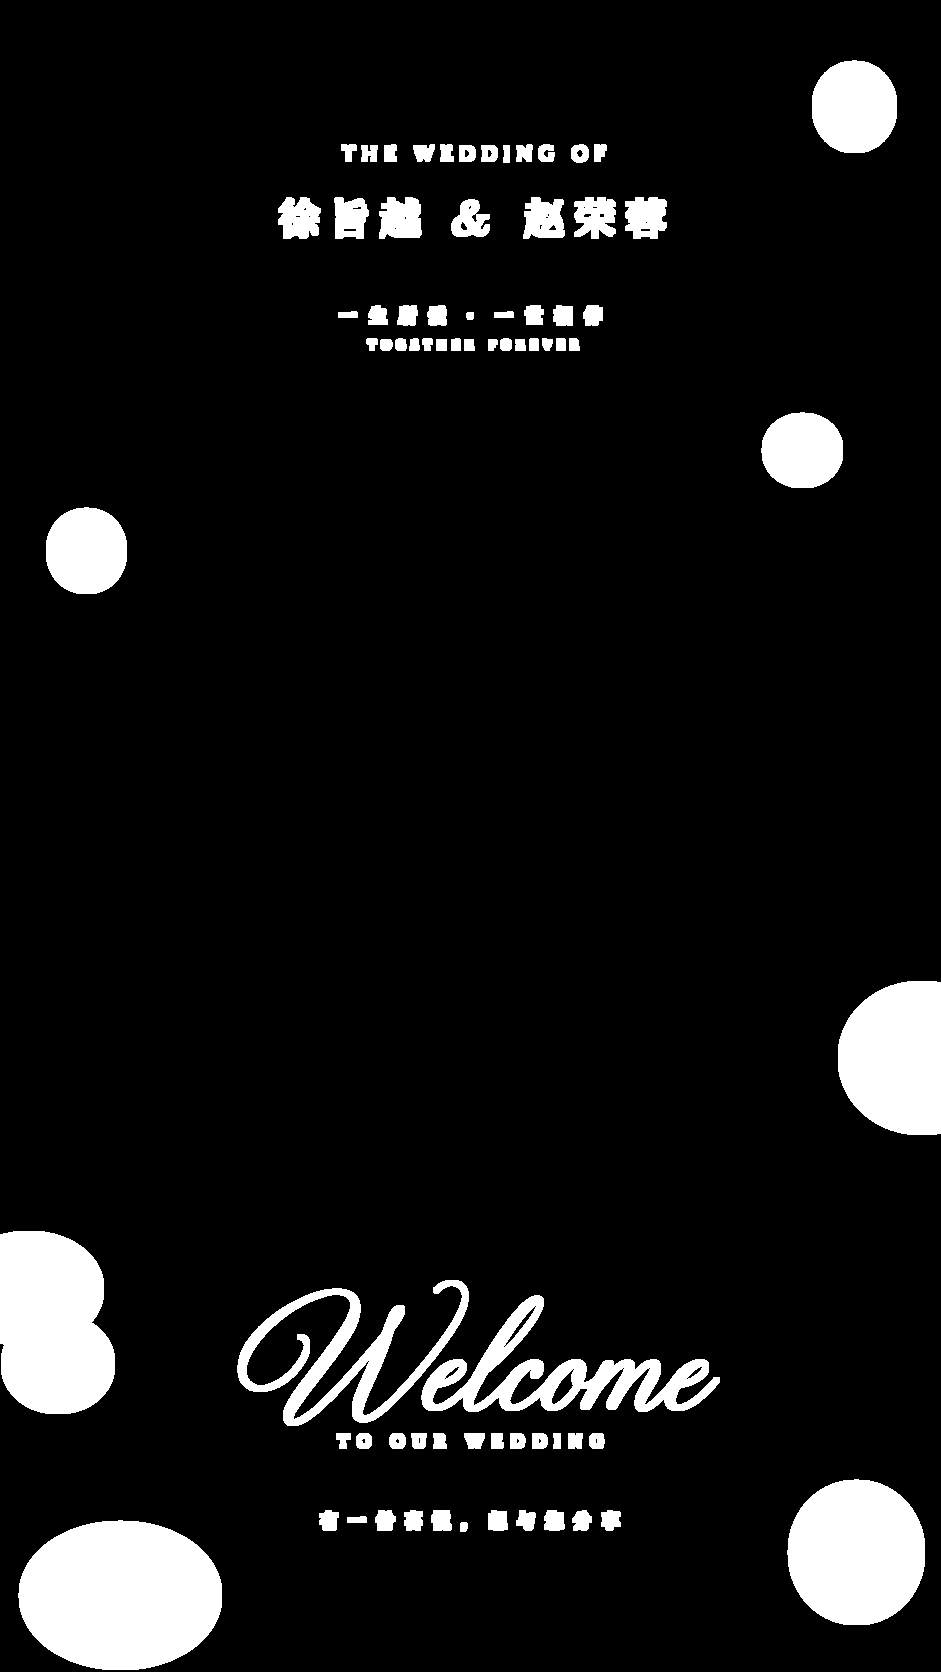
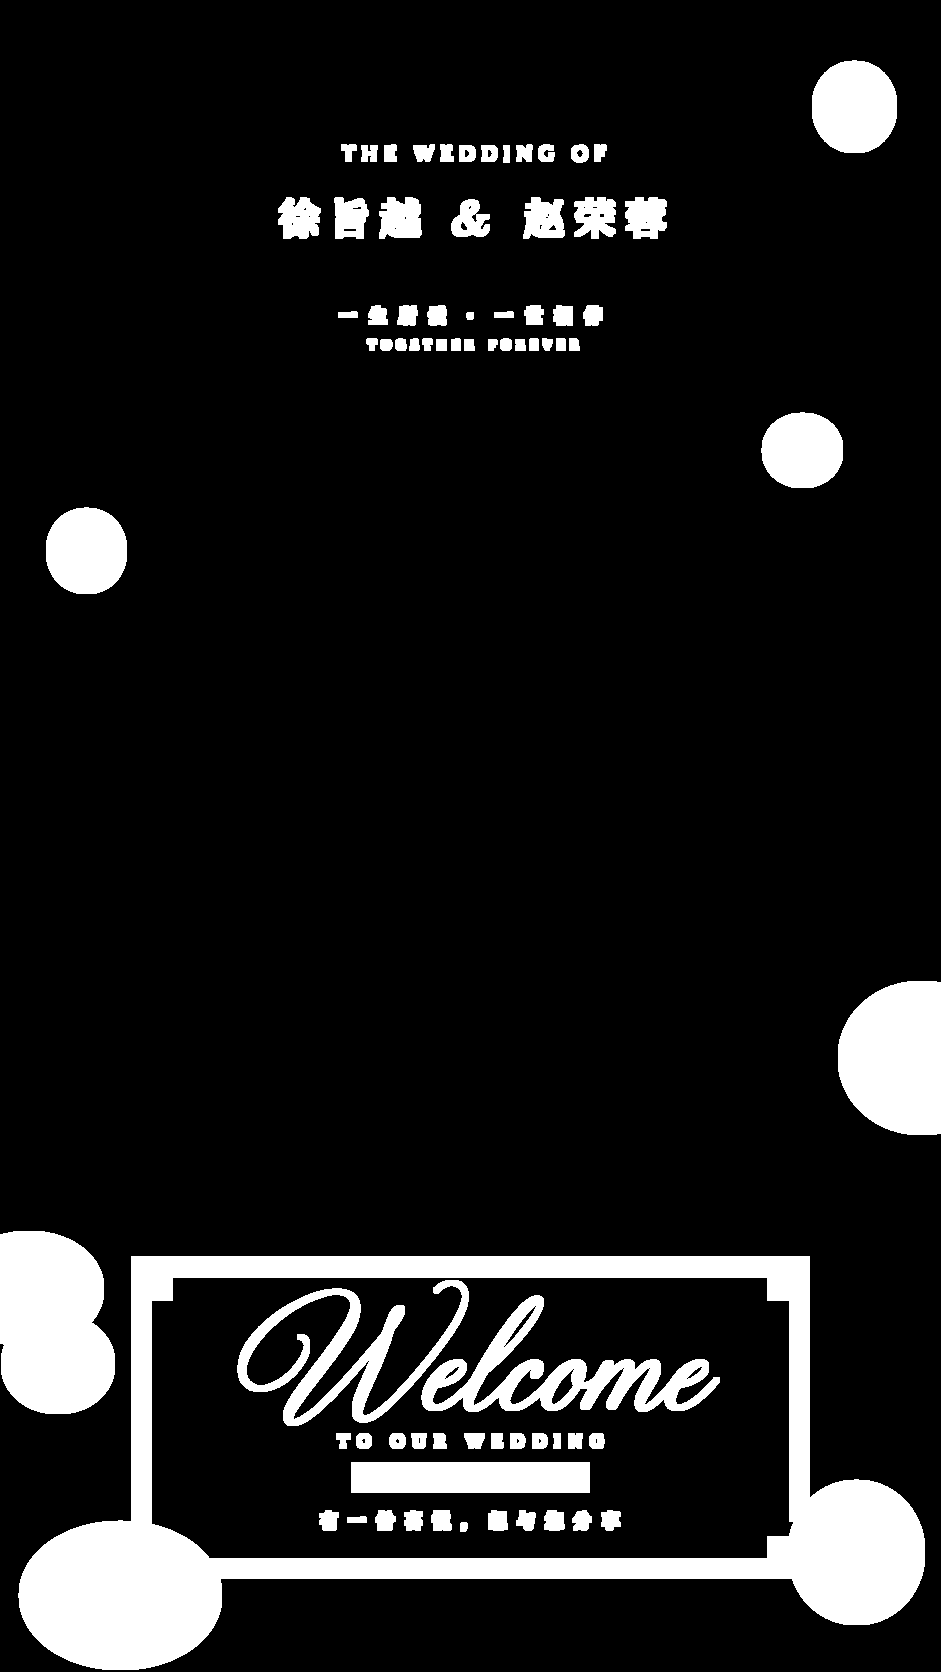
fix(invitation): 为迎宾页翻页按钮保留自适应间距
Welcome 牌面与翻页按钮共用底部布局尺寸，保留 10px 间距并计入设备安全区。清理参考图内固定牌框，避免牌面上移后出现残线。

补充九组屏幕尺寸及底部安全区的布局与点击检查。

Changed region(s): [[0.1233, 0.7464, 0.8629, 0.9641], [0.3698, 0.8708, 0.6472, 0.9019]]

diff --git a/src/style.css b/src/style.css
@@ -168,7 +168,7 @@
     /* 页面底部向下滑动提示 */
     .scroll-hint {
       position: absolute;
-      bottom: 14px;
+      bottom: var(--page-next-bottom);
       left: 0;
       right: 0;
       margin: 0 auto;
@@ -285,9 +285,12 @@
       --art-width: calc(100cqh * 941 / 1672);
       --scene-shift: 14px;
       position: absolute;
-      top: 75.65%;
-      left: calc(50% - var(--art-width) * 0.351);
-      width: calc(var(--art-width) * 0.7056);
+      /* 与翻页按钮共用底部尺寸，牌面为完整点击区域留出 10px 间距。 */
+      bottom: max(6.1%, calc(var(--page-next-bottom) + var(--page-next-size) + 10px));
+      left: 0;
+      right: 0;
+      margin-inline: auto;
+      width: min(calc(var(--art-width) * 0.7056), calc(100% - 40px));
       height: 18.25%;
       color: var(--burgundy-deep);
       text-align: center;
@@ -381,7 +384,6 @@
     }
 
     @container (max-height: 620px) {
-      .page-1 .scroll-hint { bottom: 0; }
       .cover-welcome-message { top: 78%; }
     }
 

diff --git a/src/motion.css b/src/motion.css
@@ -103,7 +103,7 @@
 button:focus-visible, a:focus-visible, [role='button']:focus-visible { outline: 2px solid var(--burgundy); outline-offset: 5px; }
 .btn-enter-invitation:focus-visible { outline-color: var(--burgundy); }
 .cover-names:focus { outline: none; }
-.scroll-hint { min-width: 44px; min-height: 44px; justify-content: center; border: 0; background: transparent; }
+.scroll-hint { min-width: var(--page-next-size); min-height: var(--page-next-size); justify-content: center; border: 0; background: transparent; }
 .modal-close { border: 0; background: transparent; font-family: inherit; }
 .page:not(.active) .scroll-arrow { animation-play-state: paused; }
 .calendar-button, .p3-map-btn { min-height: 44px; }

diff --git a/src/shell.css b/src/shell.css
@@ -35,6 +35,8 @@
 
     /* 桌面端居中仿真机身框架 / 移动端全屏 */
     #app {
+      --page-next-bottom: max(14px, env(safe-area-inset-bottom, 0px));
+      --page-next-size: 44px;
       position: relative;
       container-type: size;
       width: 100%;

diff --git a/design/implementation-notes.md b/design/implementation-notes.md
@@ -40,6 +40,8 @@
 
 迎宾页通过 `aria-owns` 关联牌面。`syncWelcomeGlass` 根据页面状态控制牌面的入场、退场与可访问性；加载页及其他页面不显示该图层。牌面位置按参考图比例计算，尺寸变化沿用同一坐标关系。
 
+迎宾牌与翻页按钮共用 `--page-next-bottom` 和 `--page-next-size`。牌面底部至少高于按钮完整点击区域 10px，底部位置包含设备安全区。窄屏牌面宽度保留两侧 20px 边距。素材脚本清理参考图中固定的牌框与分隔线，防止牌面移动后留下重影。
+
 ## 页面衔接
 
 四页共用 840ms 背景叠化与 14px 方向位移。旧页底图保持不透明，旧文字在 220ms 内退场，新文字按相同的起始延迟展开。切换以动画结束为完成条件；减少动态效果会取消位移及叠化，释放旧页。花瓣画布与音频元素位于页面容器之外，切页保持同一实例。
